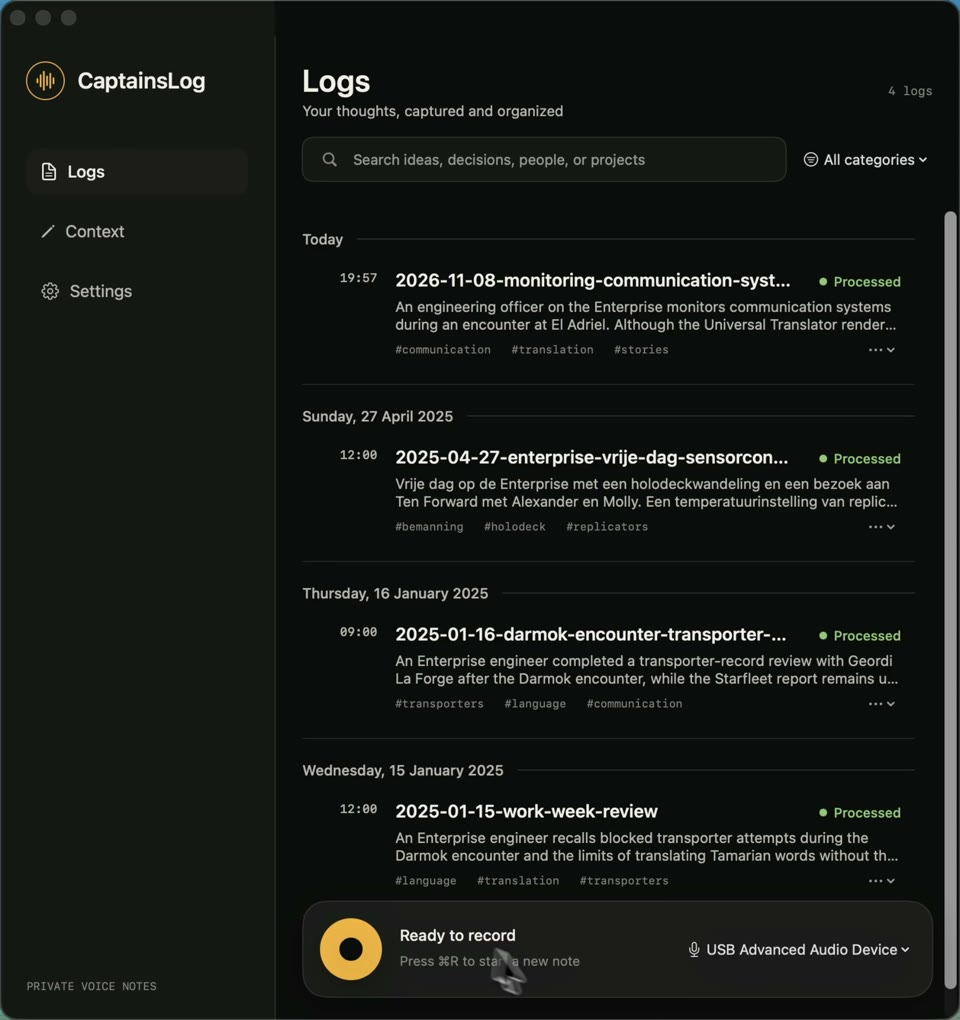
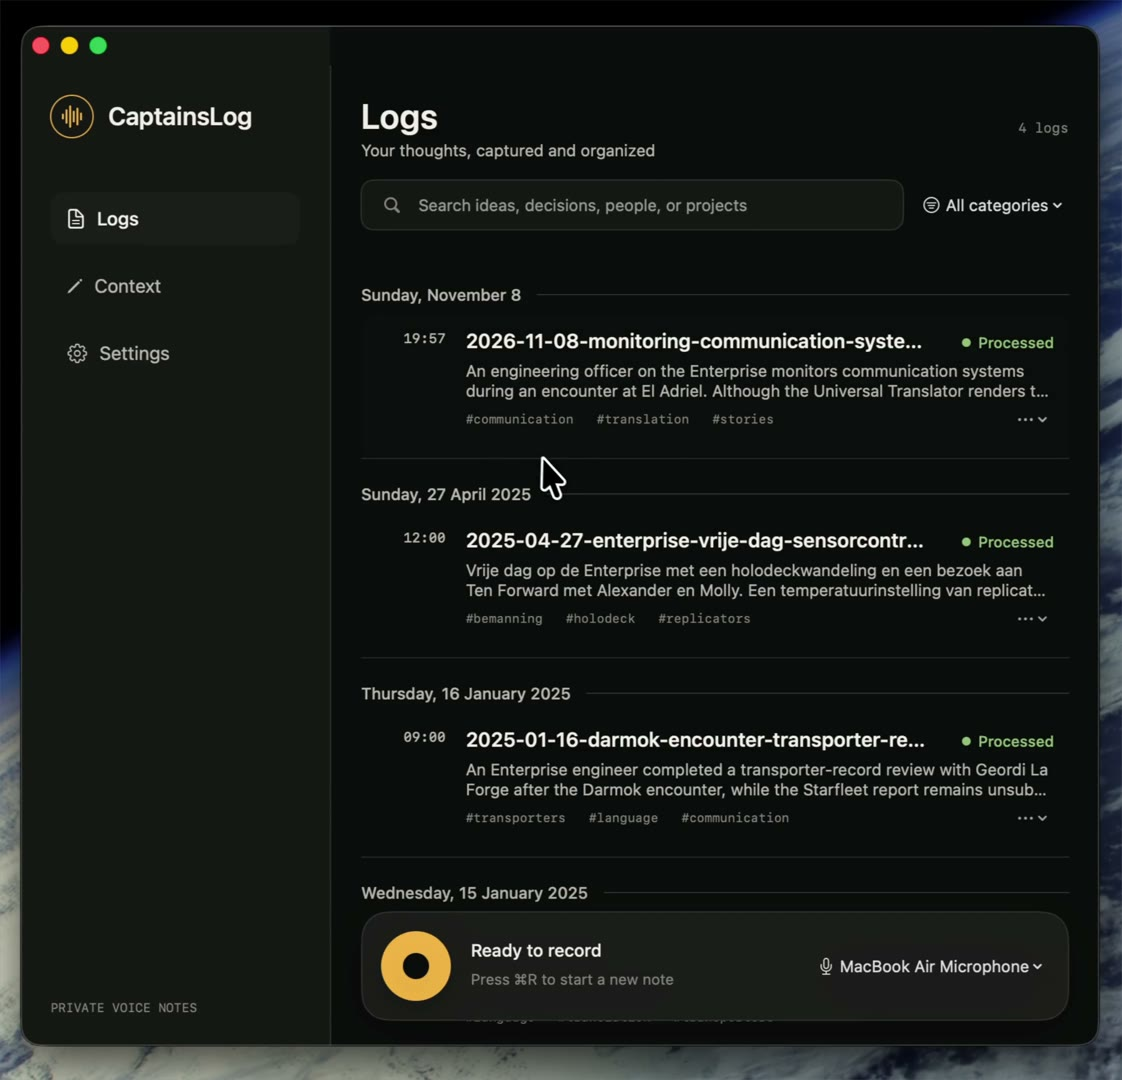
docs(website): refresh app walkthrough video

Changed region(s): [[0.3125, 0.0608, 0.9375, 0.7598], [0.0, 0.0, 1.0, 1.0], [0.7188, 0.8814, 0.9375, 0.9422]]

diff --git a/website/index.html b/website/index.html
@@ -52,7 +52,7 @@
     .section-title { font-size: 35px; font-weight: 500; line-height: 1.2; letter-spacing: -1px; margin: 0 0 18px; }
     .section-copy { color: var(--secondary); font-size: 16px; line-height: 1.8; max-width: 550px; margin: 0; }
     .walkthrough { margin: 0 0 61px; }
-    .walkthrough video { width: min(100%, 720px, 70svh); height: auto; aspect-ratio: 127 / 135; margin-inline: auto; border-radius: 2.5% / 2.35%; clip-path: inset(0 round 2.5% / 2.35%); background: var(--surface); display: block; }
+    .walkthrough video { width: min(100%, 720px, 72.72svh); height: auto; aspect-ratio: 187 / 180; margin-inline: auto; border-radius: 2.5% / 2.35%; clip-path: inset(0 round 2.5% / 2.35%); background: var(--surface); display: block; }
     .media-caption { font-size: 12px; color: var(--muted); margin: 14px 0 0; line-height: 1.7; }
     .principles { border-top: 1px solid var(--stroke); padding-block: 58px 59px; display: grid; grid-template-columns: 1fr 1.1fr; gap: 80px; }
     .principles .section-title { max-width: 340px; }
@@ -167,11 +167,11 @@
       <div class="hero-actions"><a class="button" href="#install">Get CaptainsLog</a><a class="button secondary" href="#watch">App walkthrough</a></div>
       <p class="requirements">Tested on M4 with 16 GB unified memory · macOS 26 or later</p>
       <figure class="walkthrough" id="watch" aria-label="CaptainsLog walkthrough">
-        <video controls playsinline preload="metadata" width="2032" height="2160" poster="assets/app-walkthrough.jpg" aria-label="CaptainsLog app walkthrough" aria-describedby="media-caption">
-          <source src="https://files.koenvangilst.nl/u/hV5EMz.mp4" type="video/mp4">
-          <a href="https://files.koenvangilst.nl/u/hV5EMz.mp4">Watch the CaptainsLog walkthrough</a>.
+        <video controls playsinline preload="metadata" width="2244" height="2160" poster="assets/app-walkthrough.jpg" aria-label="CaptainsLog app walkthrough" aria-describedby="media-caption">
+          <source src="https://files.koenvangilst.nl/u/GjP2Vu.mp4" type="video/mp4">
+          <a href="https://files.koenvangilst.nl/u/GjP2Vu.mp4">Watch the CaptainsLog walkthrough</a>.
         </video>
-        <figcaption class="media-caption" id="media-caption">An 82-second walkthrough using demo data: recording, processing, search, and personal context. No sound.</figcaption>
+        <figcaption class="media-caption" id="media-caption">An 80-second walkthrough using demo data: personal context, spelling corrections, search, recording, and processing. No sound.</figcaption>
       </figure>
     </section>
     <section class="principles wrap" id="privacy" aria-labelledby="privacy-title">

diff --git a/website/README.md b/website/README.md
@@ -22,7 +22,7 @@ Website visits use the same self-hosted Plausible script and `koenvangilst.nl` d
 
 ## App walkthrough
 
-The hero embeds the demo video hosted at <https://files.koenvangilst.nl/u/hV5EMz.mp4> with native playback controls and inline playback on mobile. It is a silent recording using demo data. The player preserves the recording’s proportions and fits the viewport width and height without cropping the app. Proportional corner clipping follows the captured macOS window and hides the blue desktop corners at every player size.
+The hero embeds the demo video hosted at <https://files.koenvangilst.nl/u/GjP2Vu.mp4> with native playback controls and inline playback on mobile. It is an 80-second silent recording using demo data (2244 × 2160, 17.2 MB). The player preserves the recording’s proportions and fits the viewport width and height without cropping the app. Proportional corner clipping softens the recording’s outer corners; a narrow desktop border remains visible.
 
 To replace the recording, update the video source, fallback link, dimensions and descriptive caption in `index.html`, and refresh `assets/app-walkthrough.jpg`. Adjust the CSS aspect ratio if the new recording has different proportions. The video host must support HTTP byte ranges for seeking. There is no autoplay; only metadata loads before playback.
 

diff --git a/CHANGELOG.md b/CHANGELOG.md
@@ -12,6 +12,8 @@ entry. Git links provide the complete commit history for each release.
 
 ## [Unreleased]
 
+- Refresh the website walkthrough video, poster and duration, and fit the player to the new recording’s proportions.
+
 - Focus the README on app installation and use; move contributor instructions into a linked guide and update documentation links.
 
 - Add an app walkthrough to the website with a responsive video player, explain how personal name and term corrections improve the final transcript, and document the shared hosting publication process.
